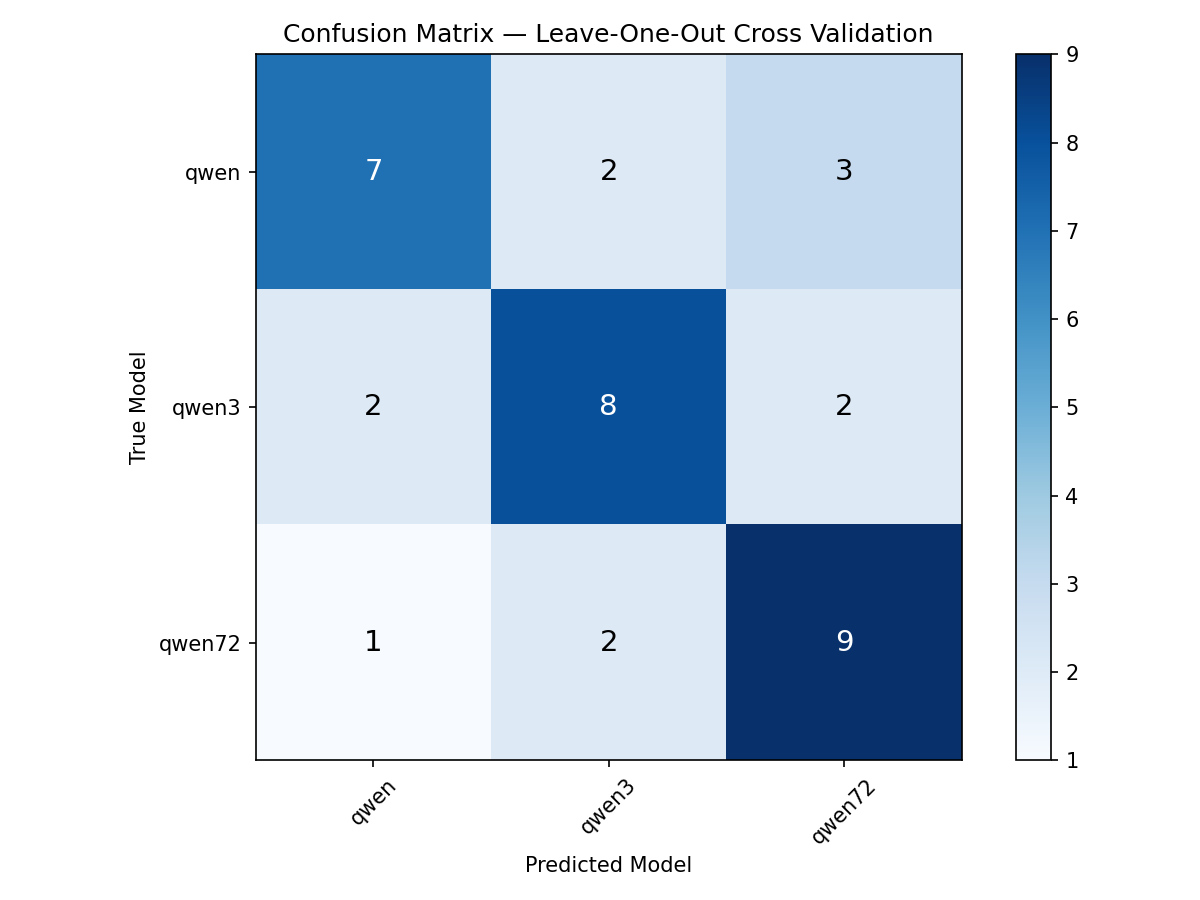
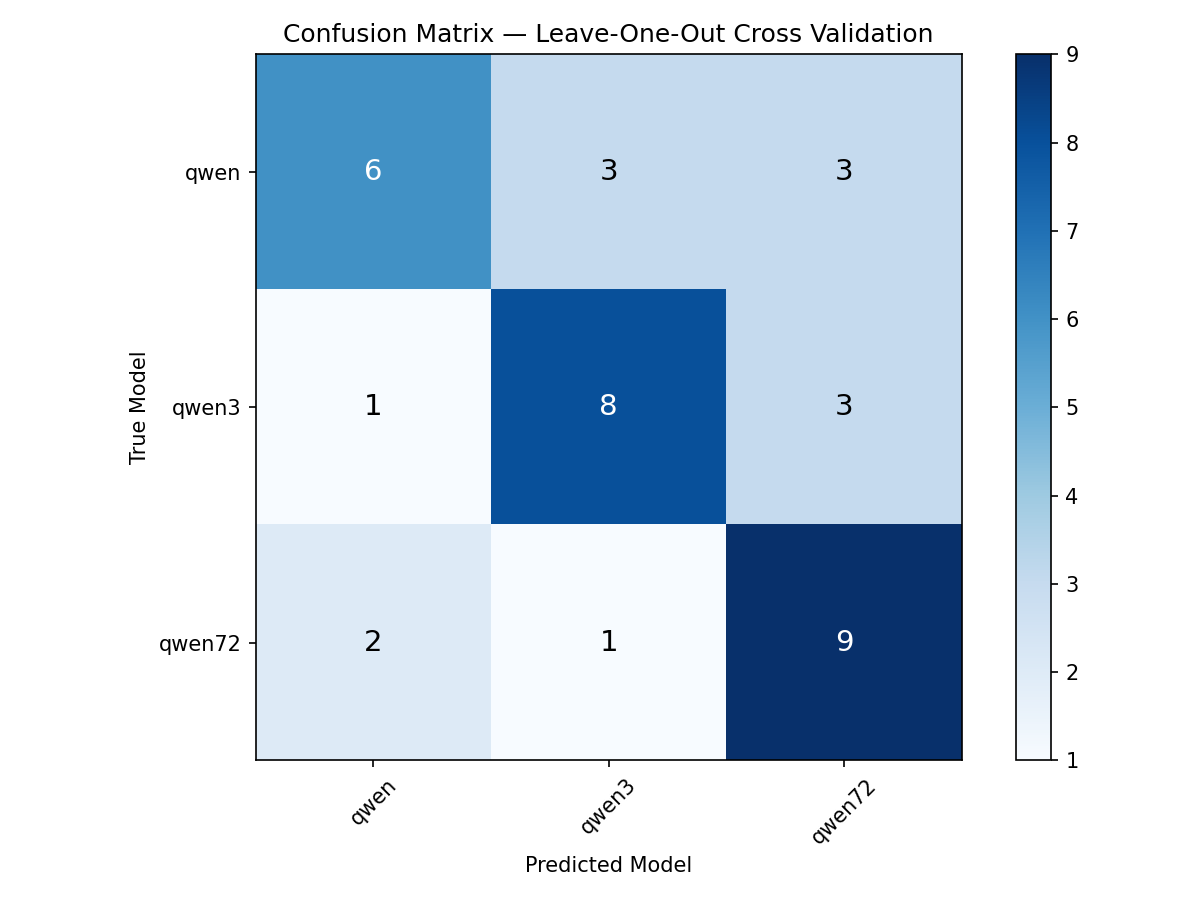
Add: syntactic depth, sentiment, readability features

Changed region(s): [[0.2158, 0.0622, 0.6167, 0.8711], [0.6783, 0.4356, 0.7092, 0.4667]]

diff --git a/src/analyse.py b/src/analyse.py
@@ -1,6 +1,8 @@
 import json
 import nltk # Natural Language Toolkit for text processing
 import pandas as pd
+from textblob import TextBlob # For sentiment analysis
+from textstat import textstat # For readability metrics
 from collections import Counter
 
 # Download NLTK data (only running once time)
@@ -11,8 +13,20 @@ nltk.download('averaged_perceptron_tagger_eng') # Download English part-of-speec
 
 # ============================================================
 # WHAT THIS FILE DOES:
-# Reads corpus.json and measures 5 stylometric features
+# Reads corpus.json and measures 9 stylometric features
 # for each text, then saves results to data/features.csv
+#
+# Stylometric features include:
+# 1. Lexical diversity (unique words / total words)
+# 2. Average sentence length (words per sentence)
+# 3. Adjective ratio (adjectives / total words)
+# 4. Verb ratio (verbs / total words)
+# 5. Noun ratio (nouns / total words)
+# 6. Punctuation frequency (punctuation / total words)
+# 7. Syntactic Depth (average parse tree depth per sentence)
+# 8. Sentiment polarity (TextBlob sentiment analysis)
+# 9. Readability (Flesch Reading Ease)
+
 # ============================================================
 
 def load_corpus(path="data/corpus.json"):
@@ -74,6 +88,45 @@ def punctuation_frequency(text):
         return 0
     return punct / total # punctuation frequency = number of punctuation tokens divided by total tokens
 
+def syntactic_depth(text):
+    """
+    Estimate syntactic complexity by counting
+    subordinating conjunctions and relative pronouns.
+    High score = more complex nested sentence structures.
+    e.g. 'which', 'that', 'because', 'although', 'if'
+    """
+    words = nltk.word_tokenize(text)
+    tags = nltk.pos_tag(words)
+    total = len(words)
+    if total == 0:
+        return 0
+    # IN = subordinating conjunction
+    # WDT = relative pronoun (which, that)
+    # WP = wh-pronoun (who, what)
+    depth_markers = sum(
+        1 for _, t in tags
+        if t in ['IN', 'WDT', 'WP']
+    )
+    return depth_markers / total
+
+def sentiment_polarity(text):
+    """
+    Measure sentiment of the text using TextBlob.
+    -1.0 = very negative
+     0.0 = neutral
+    +1.0 = very positive
+    """
+    return TextBlob(text).sentiment.polarity
+
+def readability(text):
+    """
+    Measure how easy the text is to read.
+    90-100 = very easy (children's book)
+    60-70  = standard (normal prose)
+    0-30   = very difficult (academic)
+    """
+    return textstat.flesch_reading_ease(text)
+
 def analyze_corpus(corpus):
     """Run all measurements on every text and return a DataFrame."""
     rows = []
@@ -92,6 +145,9 @@ def analyze_corpus(corpus):
             "verb_ratio":          round(verb, 3),
             "noun_ratio":          round(noun, 3),
             "punct_frequency":     round(punctuation_frequency(text), 3),
+            "syntactic_depth":     round(syntactic_depth(text), 3),
+            "sentiment_polarity":  round(sentiment_polarity(text), 3),
+            "readability":         round(readability(text), 3)
         })
     return pd.DataFrame(rows)
 
@@ -110,5 +166,5 @@ if __name__ == "__main__":
     print("\n📊 AVERAGE PER MODEL:")
     print(df.groupby("model")[
         ["lexical_diversity", "avg_sentence_length",
-         "adj_ratio", "verb_ratio", "punct_frequency"]
+         "adj_ratio", "verb_ratio", "punct_frequency", "syntactic_depth", "sentiment_polarity", "readability"]
     ].mean().round(3).to_string())

diff --git a/src/evaluator.py b/src/evaluator.py
@@ -23,7 +23,10 @@ FEATURES = [
     "adj_ratio",
     "verb_ratio",
     "noun_ratio",
-    "punct_frequency"
+    "punct_frequency",
+    "syntactic_depth",
+    "sentiment_polarity",
+    "readability"
 ]
 
 def load_features(path="data/features.csv"):
@@ -145,7 +148,6 @@ def plot_feature_importance(clf, df, le):
 
     plt.tight_layout()
     plt.savefig("results/feature_importance.png", dpi=150)
-    plt.close()
     print("✅ Saved: results/feature_importance.png")
 
 if __name__ == "__main__":
